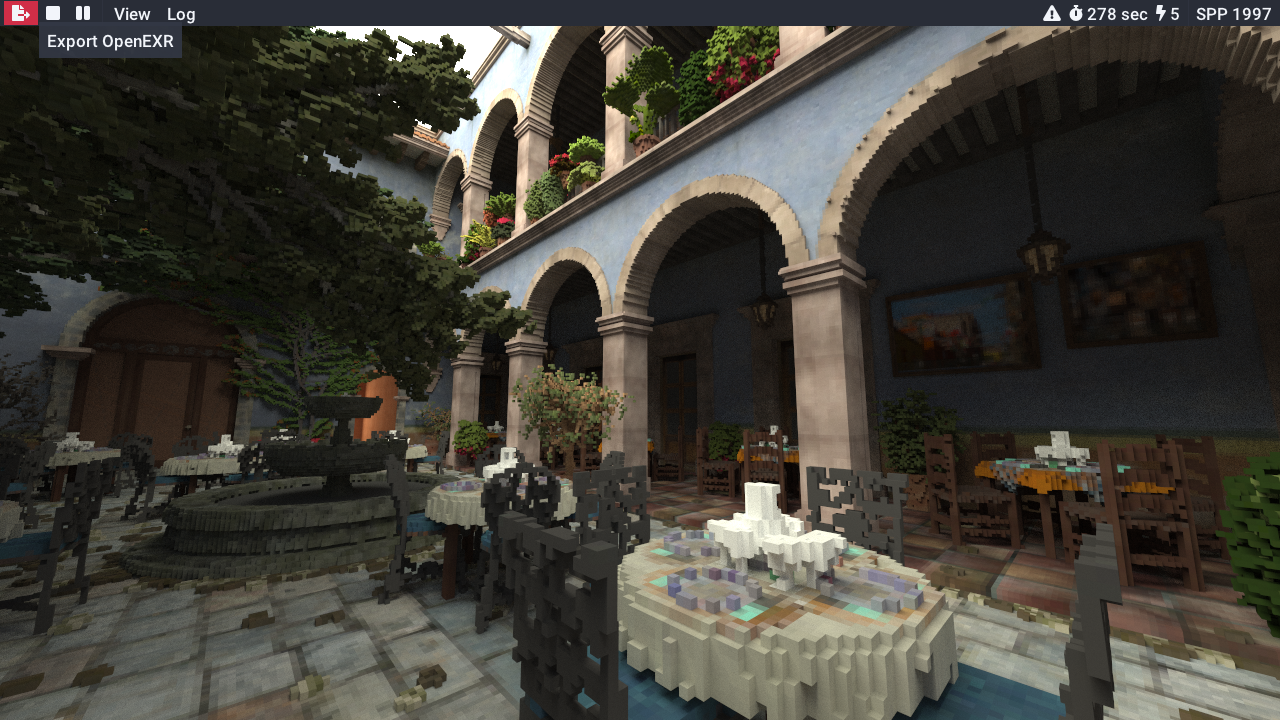
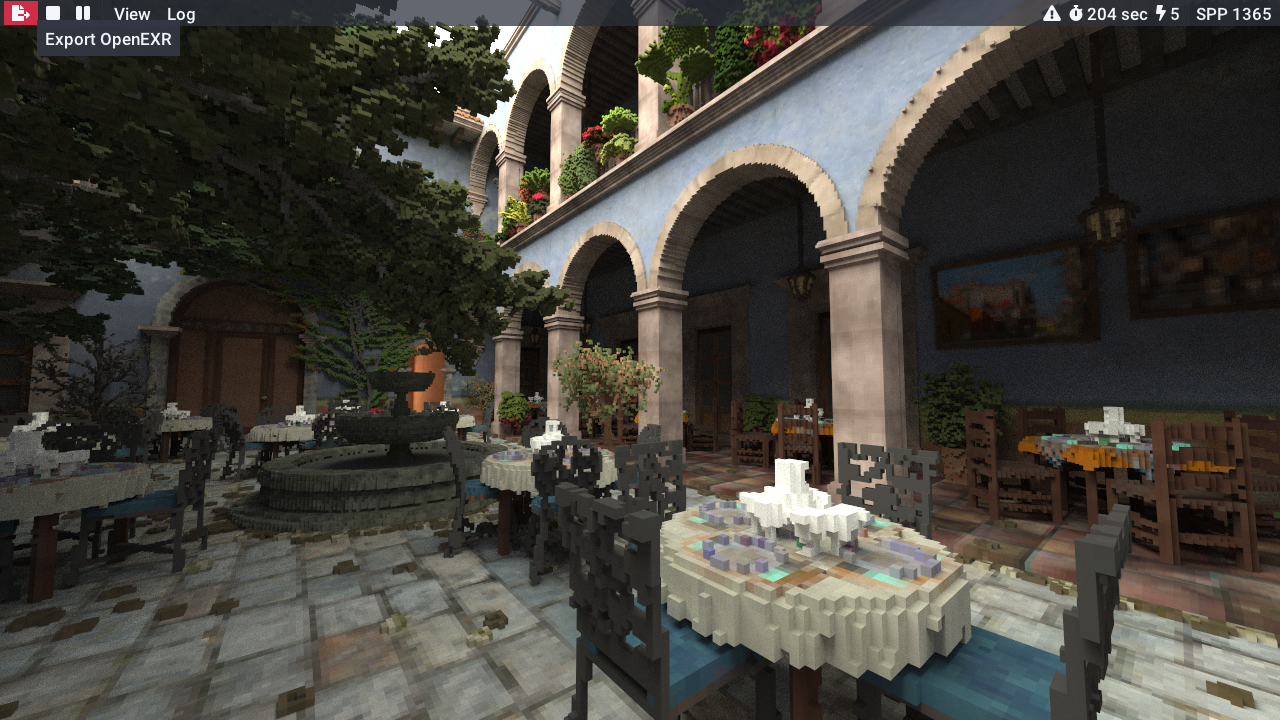
transparent menubar

diff --git a/src/Application.cpp b/src/Application.cpp
@@ -444,7 +444,7 @@ void Application::ui_menubar() {
 	}
 
 	// Status bar
-	float indent_w = ImGui::GetWindowContentRegionWidth();
+	float indent_w = ImGui::GetWindowContentRegionWidth(), spacing = ImGui::GetStyle().ItemSpacing.x;
 
 	char buf[128];
 	if (m_ui_state == UIStates::kOctreeTracer) {
@@ -453,12 +453,12 @@ void Application::ui_menubar() {
 		ImGui::SameLine(indent_w);
 		ImGui::TextUnformatted(buf);
 
-		indent_w -= 8;
+		indent_w -= spacing;
 		ImGui::SameLine(indent_w);
 		ImGui::Separator();
 
 		sprintf(buf, ICON_FA_CUBE " %d", m_octree->GetLevel());
-		indent_w -= ImGui::CalcTextSize(buf).x + 8;
+		indent_w -= ImGui::CalcTextSize(buf).x + spacing;
 		ImGui::SameLine(indent_w);
 		ImGui::TextUnformatted(buf);
 
@@ -470,7 +470,7 @@ void Application::ui_menubar() {
 
 		sprintf(buf, ICON_FA_DATABASE " %.0f/%.0f MB", m_octree->GetRange() / 1000000.0f,
 		        m_octree->GetBuffer()->GetSize() / 1000000.0f);
-		indent_w -= ImGui::CalcTextSize(buf).x + 8;
+		indent_w -= ImGui::CalcTextSize(buf).x + spacing;
 		ImGui::SameLine(indent_w);
 		ImGui::TextUnformatted(buf);
 
@@ -485,12 +485,12 @@ void Application::ui_menubar() {
 		ImGui::SameLine(indent_w);
 		ImGui::TextUnformatted(buf);
 
-		indent_w -= 8;
+		indent_w -= spacing;
 		ImGui::SameLine(indent_w);
 		ImGui::Separator();
 
 		sprintf(buf, ICON_FA_BOLT " %u", m_path_tracer->m_bounce);
-		indent_w -= ImGui::CalcTextSize(buf).x + 8;
+		indent_w -= ImGui::CalcTextSize(buf).x + spacing;
 		ImGui::SameLine(indent_w);
 		ImGui::TextUnformatted(buf);
 
@@ -501,7 +501,7 @@ void Application::ui_menubar() {
 		}
 
 		sprintf(buf, ICON_FA_STOPWATCH " %u sec", uint32_t(m_path_tracer_thread->GetRenderTime()));
-		indent_w -= ImGui::CalcTextSize(buf).x + 8;
+		indent_w -= ImGui::CalcTextSize(buf).x + spacing;
 		ImGui::SameLine(indent_w);
 		ImGui::TextUnformatted(buf);
 
@@ -512,7 +512,7 @@ void Application::ui_menubar() {
 		}
 
 		if (m_path_tracer_queue->GetFamilyIndex() == m_main_queue->GetFamilyIndex()) {
-			indent_w -= ImGui::CalcTextSize(ICON_FA_EXCLAMATION_TRIANGLE).x + 8;
+			indent_w -= ImGui::CalcTextSize(ICON_FA_EXCLAMATION_TRIANGLE).x + spacing;
 			ImGui::SameLine(indent_w);
 			ImGui::TextUnformatted(ICON_FA_EXCLAMATION_TRIANGLE);
 

diff --git a/src/ImGuiHelper.cpp b/src/ImGuiHelper.cpp
@@ -67,7 +67,7 @@ void StyleCinder(ImGuiStyle *dst) {
 
 	colors[ImGuiCol_Text] = ImVec4(0.95f, 0.96f, 0.98f, 1.00f);
 	colors[ImGuiCol_TextDisabled] = ImVec4(0.36f, 0.42f, 0.47f, 1.00f);
-	colors[ImGuiCol_WindowBg] = ImVec4(0.13f, 0.14f, 0.17f, 1.00f);
+	colors[ImGuiCol_WindowBg] = ImVec4(0.13f, 0.14f, 0.17f, 0.50f);
 	colors[ImGuiCol_Border] = ImVec4(0.31f, 0.31f, 1.00f, 0.00f);
 	colors[ImGuiCol_BorderShadow] = ImVec4(0.00f, 0.00f, 0.00f, 0.00f);
 	colors[ImGuiCol_FrameBg] = ImVec4(0.20f, 0.22f, 0.27f, 1.00f);
